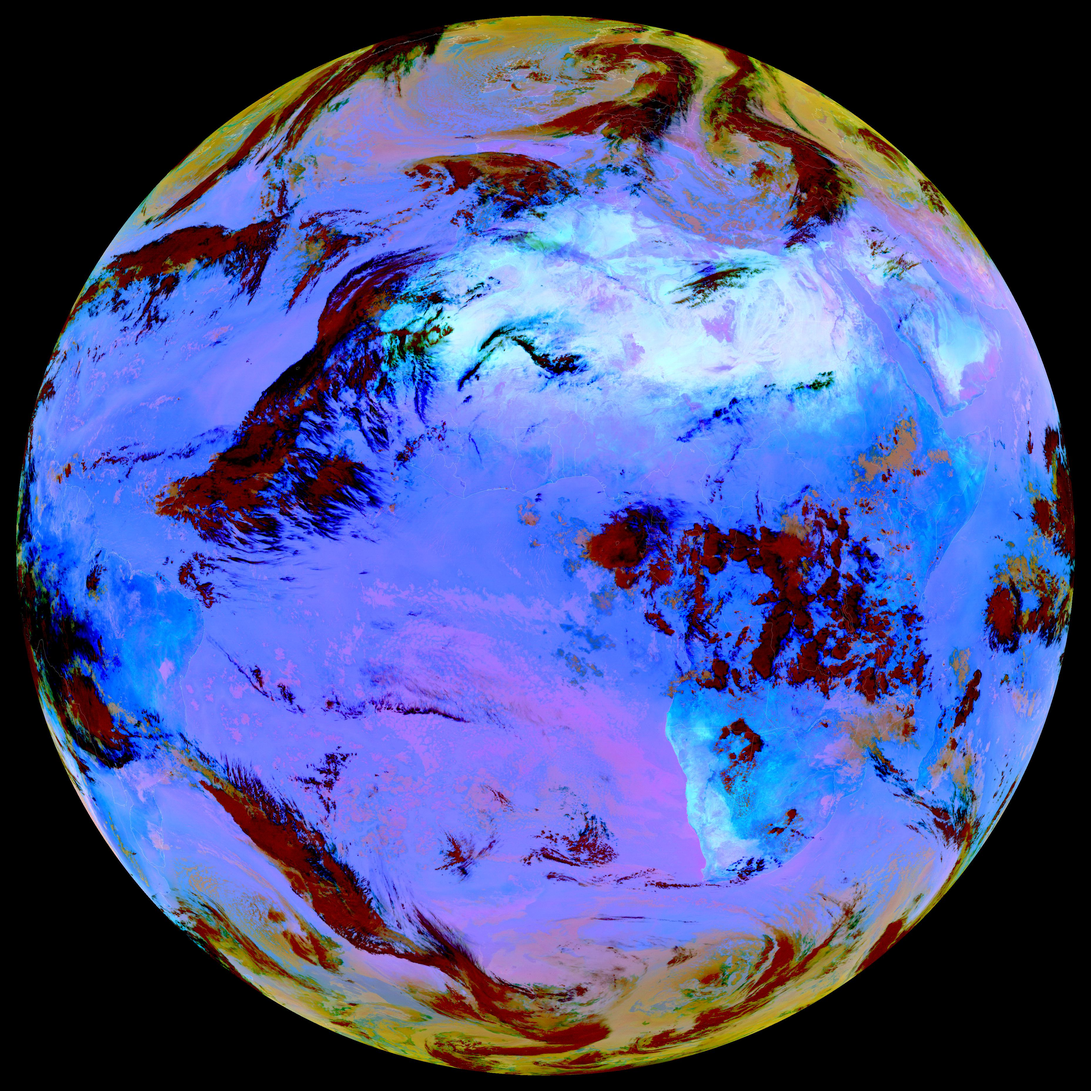
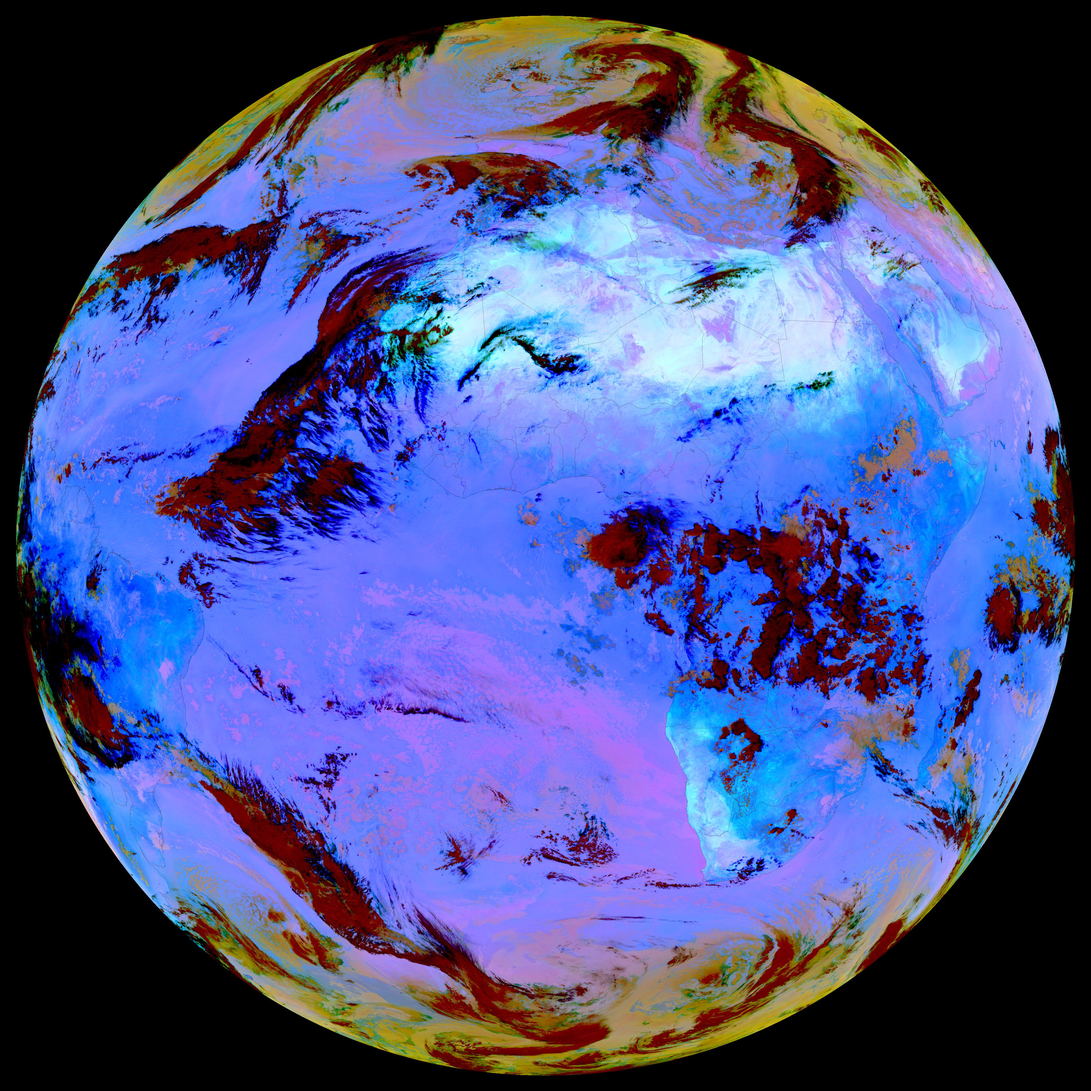
Adding overlay color change to black

diff --git a/SatImg.py b/SatImg.py
@@ -32,7 +32,7 @@ def read_dataset(ch):
     return (array + offset) * scale
 
 
-def overlay(array, layer, alpha):
+def overlay(array, layer, alpha, black):
     '''Given an array, an alpha coeficient and the type of overlay
     we want to make, return a modified aray'''
 
@@ -80,14 +80,17 @@ def overlay(array, layer, alpha):
     lay_array = lay_array / lay_array.max()
     # Apply alpha
     # Factor is between 0 and 1, being 0 totally transparent
-    array[lay_array == 1] = array[lay_array == 1] * (1 - alpha) + 255 * alpha
+    if black:
+        array[lay_array == 1] = array[lay_array == 1] * (1 - alpha) + 0 * alpha
+    else:
+        array[lay_array == 1] = array[lay_array == 1] * (1 - alpha) + 255 * alpha
     return array
 
 
-def create_image(array, path, name='MeteosatImage.jpg', layer=None, alpha=0.35):
+def create_image(array, path, name='MeteosatImage.jpg', layer=None, alpha=0.35, black=False):
     '''Create an image given a 3D array (RGB)'''
     if layer is not None:
-        array = overlay(array, layer, alpha)
+        array = overlay(array, layer, alpha, black)
     os.chdir(path)
     Image.fromarray(array.astype('uint8')).save(name)
     print(f'saved: {name}')

diff --git a/example.py b/example.py
@@ -26,13 +26,13 @@ sat.create_image(colorgeo2_array, images_path, 'ColorGeo Modo 2.jpeg', layer='ge
 
 # Making the dust array
 dust_array = sat.dust()
-sat.create_image(dust_array, images_path, 'Dust.jpeg', layer='countries', alpha=0.35)
+sat.create_image(dust_array, images_path, 'Dust.jpeg', layer='countries', alpha=0.35, black=True)
 
 dustgeo1bilinter_array = sat.latlon(dust_array)
-sat.create_image(dustgeo1bilinter_array, images_path, 'DustGeo Bilinter.jpeg', layer='geo-countries', alpha=0.35)
+sat.create_image(dustgeo1bilinter_array, images_path, 'DustGeo Bilinter.jpeg', layer='geo-countries', alpha=0.35, black=True)
 
 dustgeo1_array = sat.latlon(dust_array, interpolation=False)
-sat.create_image(dustgeo1_array, images_path, 'DustGeo.jpeg', layer='geo-countries', alpha=0.35)
+sat.create_image(dustgeo1_array, images_path, 'DustGeo.jpeg', layer='geo-countries', alpha=0.35, black=True)
 
 dustgeo2_array = sat.latlon(dust_array, way=2)
-sat.create_image(dustgeo2_array, images_path, 'DustGeo Modo 2.jpeg', layer='geo-countries', alpha=0.35)
+sat.create_image(dustgeo2_array, images_path, 'DustGeo Modo 2.jpeg', layer='geo-countries', alpha=0.35, black=True)
